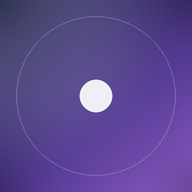
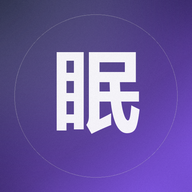
个性化站点：站点名 / 作者名 / 签名 / 头像与图标
- 作者名改为「不知眠」，签名「记录、思考」
- 换上以「眠」字为元素的头像，并同步 favicon 全套图标
- 填写真实的 GitHub 链接，清除占位文案

diff --git a/content/about/index.md b/content/about/index.md
@@ -10,7 +10,7 @@ showComments: false
 
 ## 关于我
 
-我是 **你的名字**（改我）。这里写两三句自我介绍。
+我是 **不知眠**。这里写两三句自我介绍。
 
 ## 关于这个博客
 
@@ -20,7 +20,7 @@ showComments: false
 
 ## 联系我
 
-- GitHub：[YOUR-USERNAME](https://github.com/YOUR-USERNAME)
-- 邮箱：you@example.com
+- GitHub：[xiaodeng826](https://github.com/xiaodeng826)
+- 邮箱：（还没填）
 
 > 本站由 [Hugo](https://gohugo.io/) + [Blowfish](https://blowfish.page/zh-cn/) 构建，托管在 GitHub Pages 上，文章源文件是普通的 Markdown。
